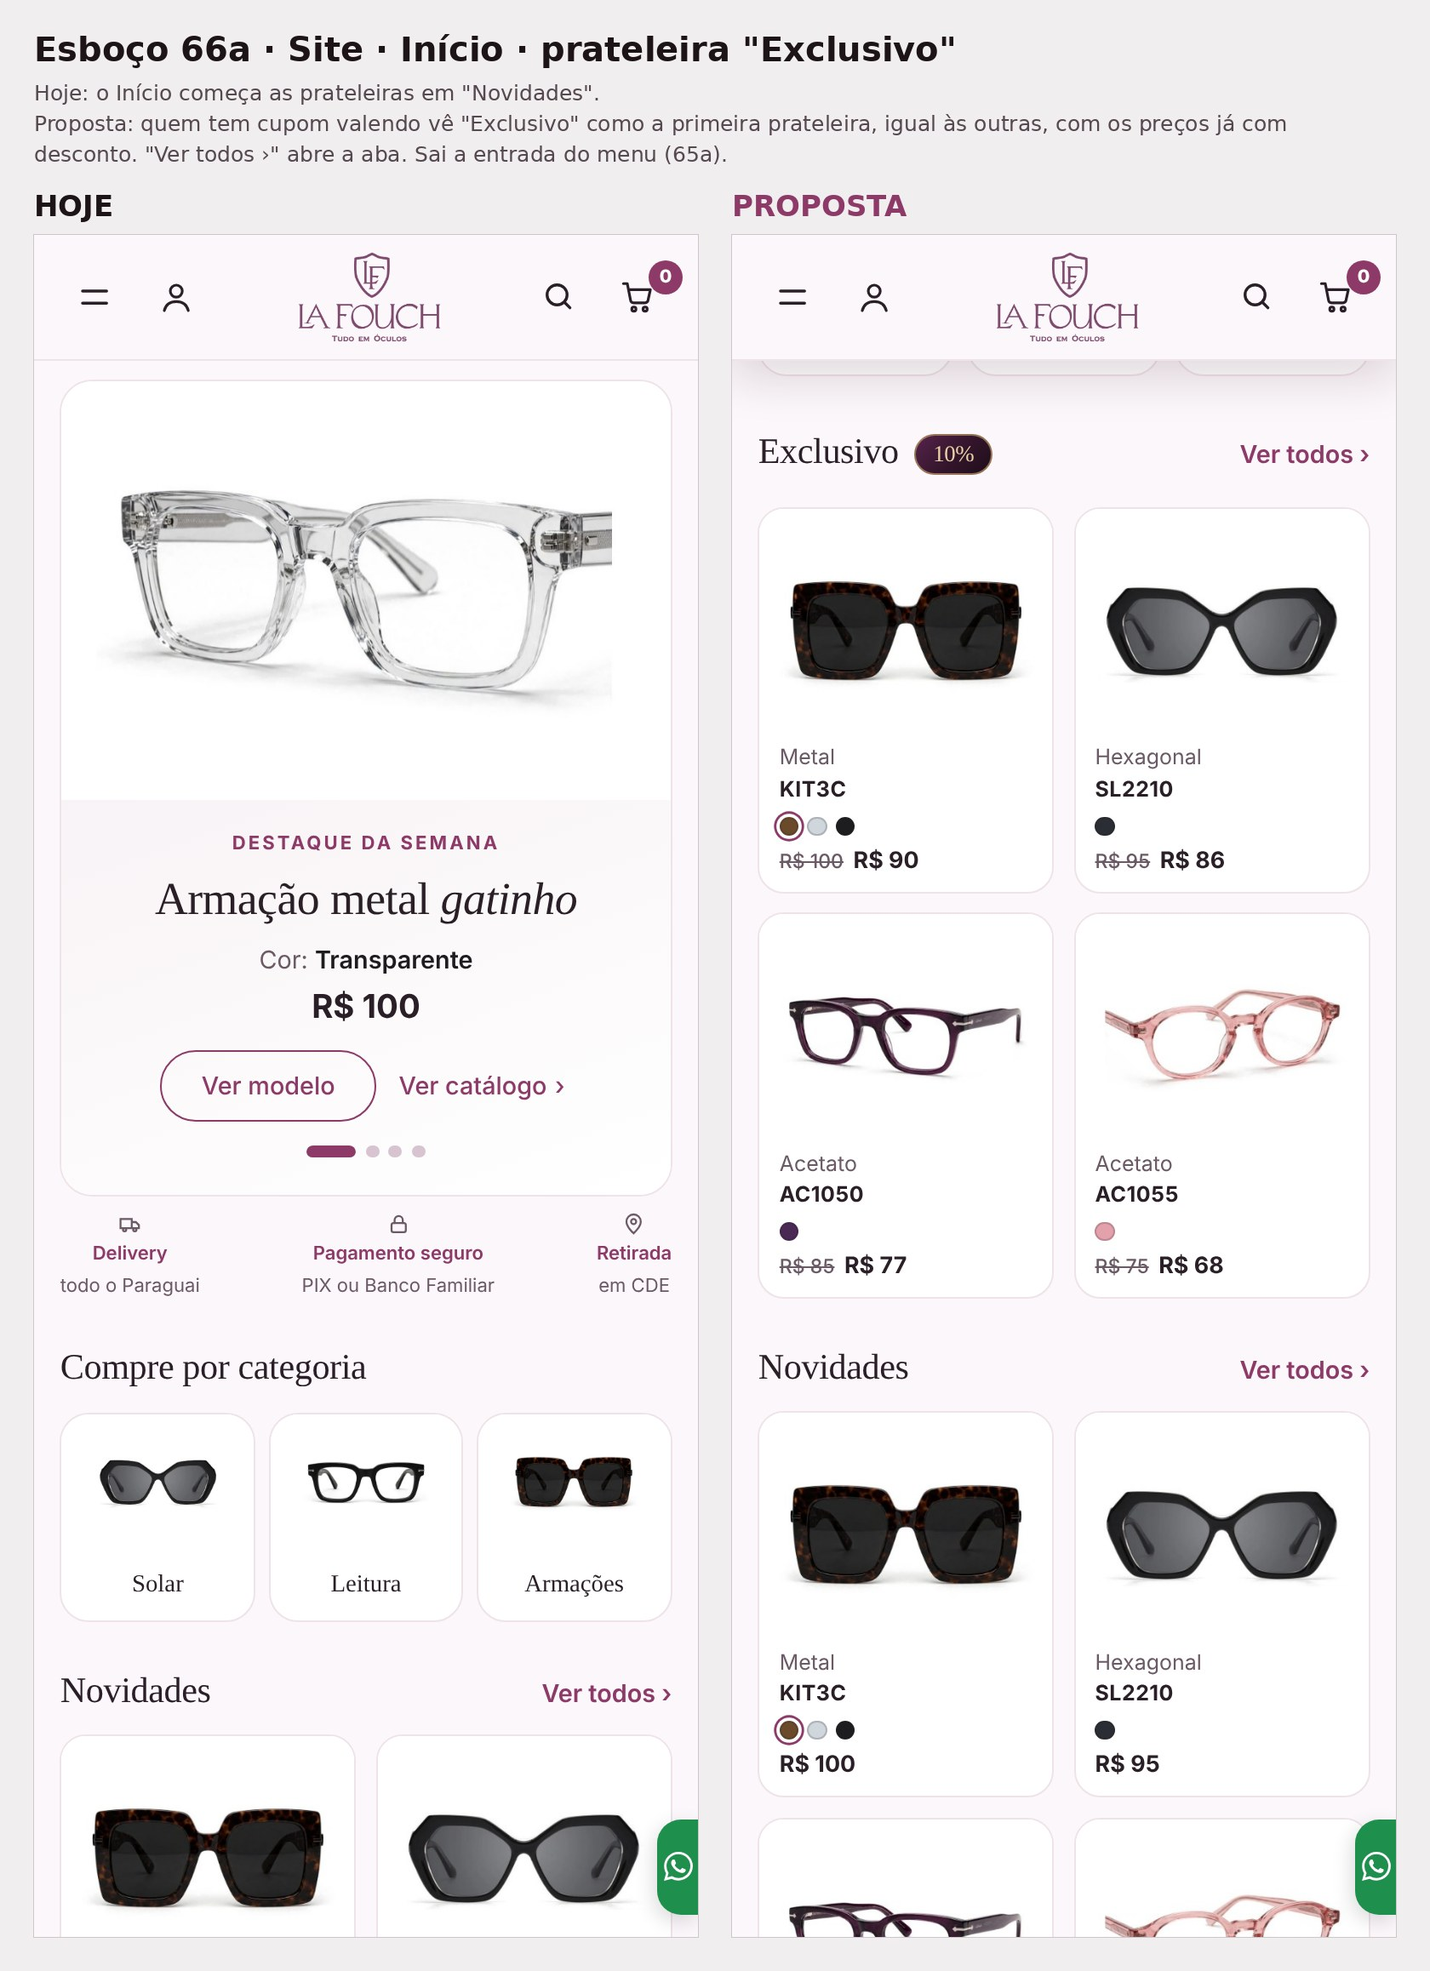
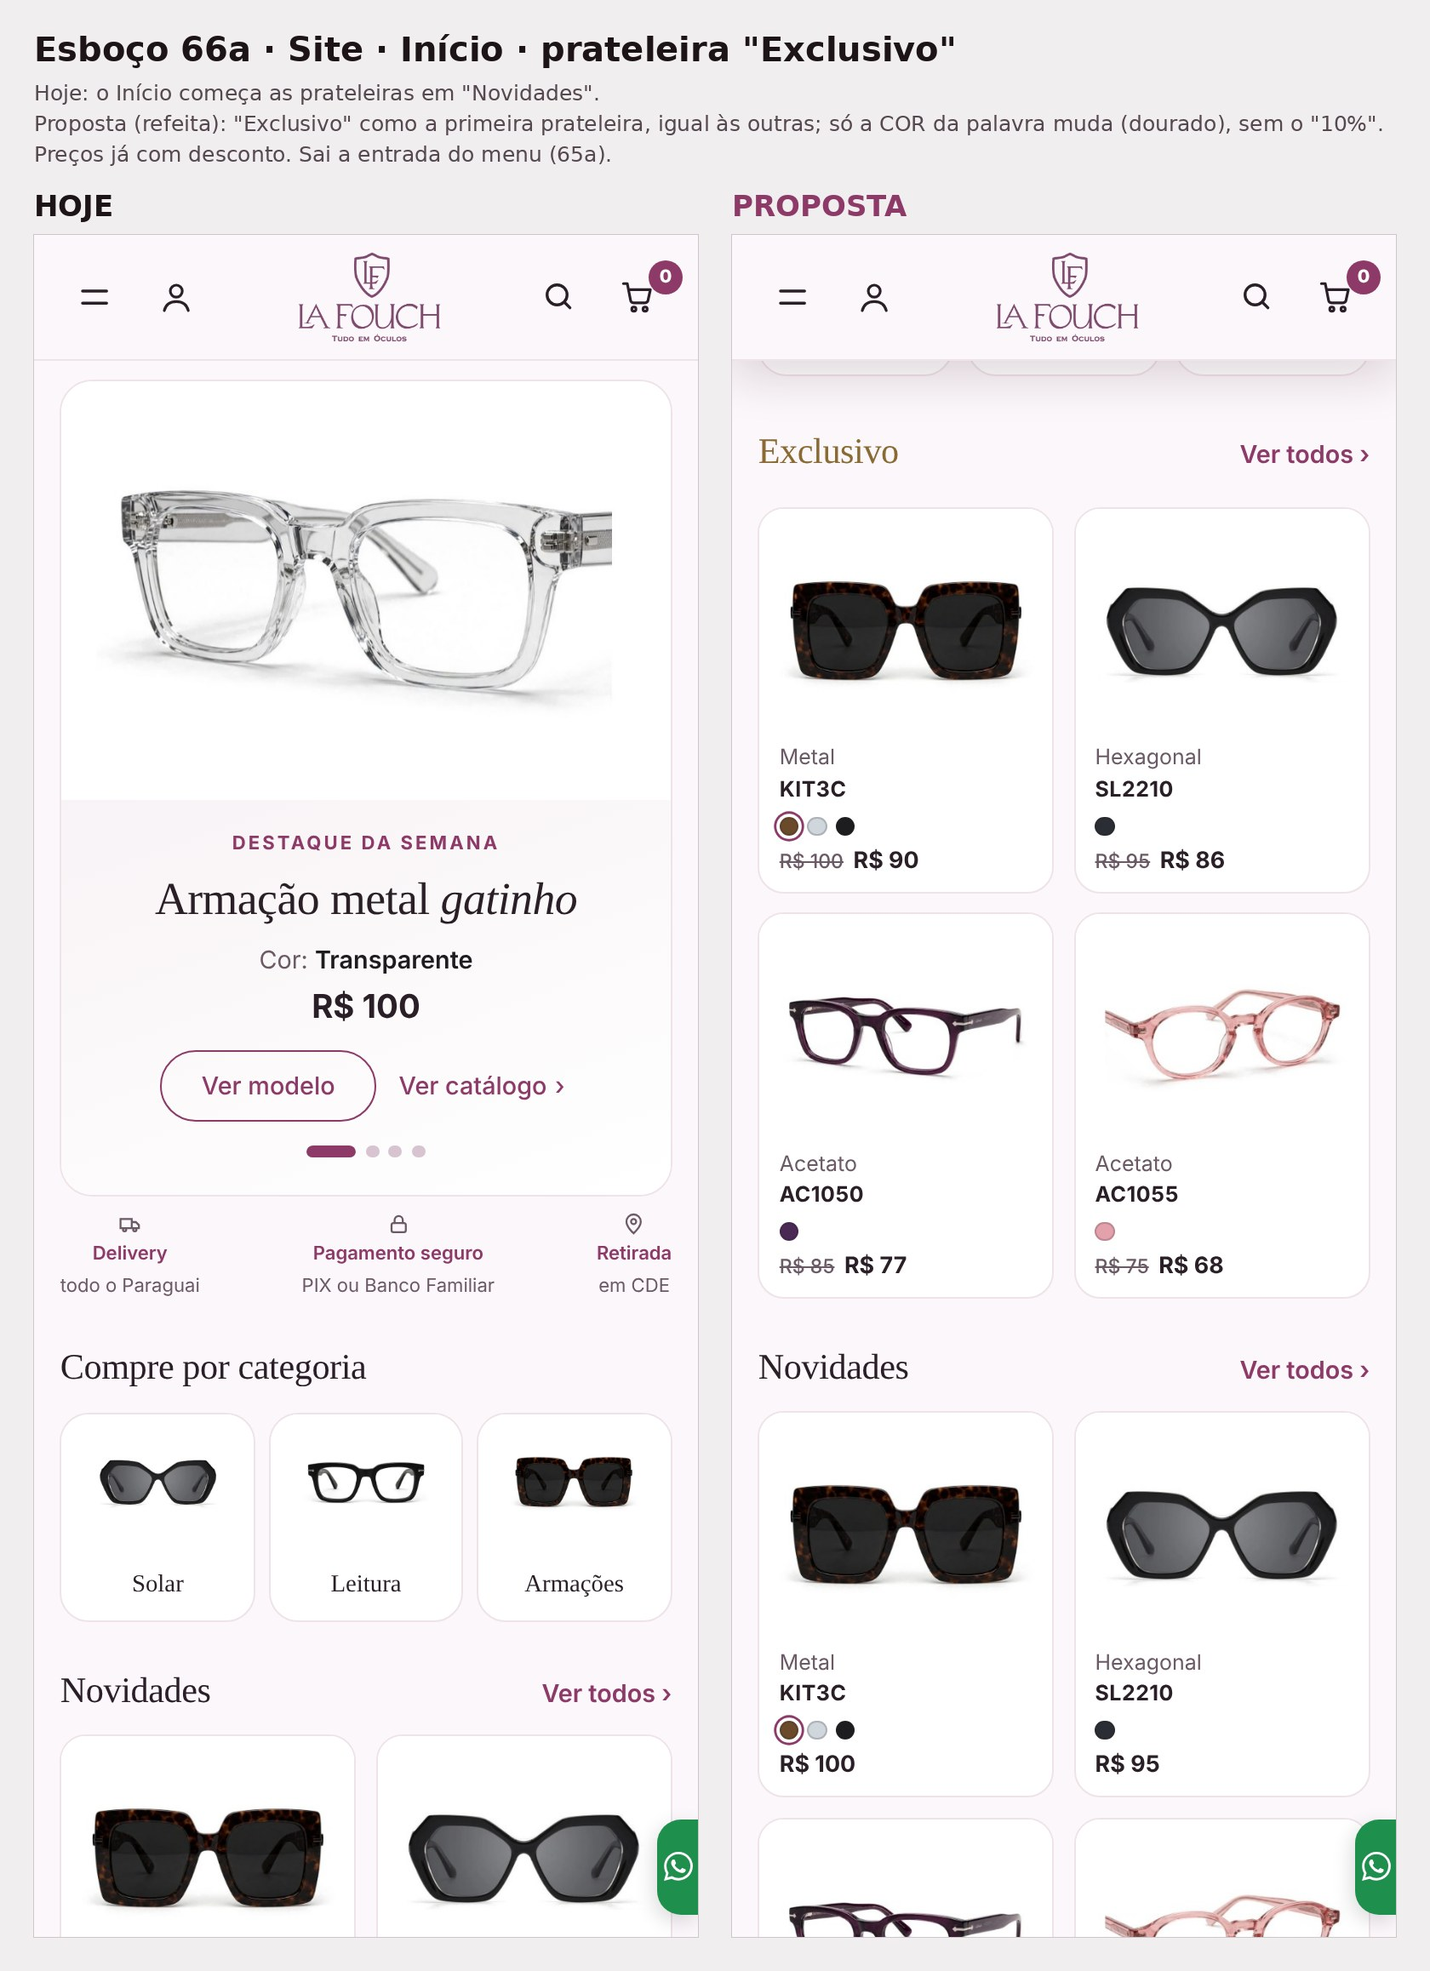
Esboços 66 refeitos: aba Exclusivo sem botões, prateleira sem o 10%, troca de cartão em Minha conta
Claude-Session: https://claude.ai/code/session_01Vj5GPR2QjandaFr6ascRKC

Changed region(s): [[0.031, 0.0622, 0.5262, 0.0933], [0.5262, 0.2176, 0.7119, 0.2487]]

diff --git a/work/s401/esb5.py b/work/s401/esb5.py
@@ -12,30 +12,45 @@ CSS+=""".exs h2 i{display:inline-block;vertical-align:middle;margin-left:10px;pa
 .exr .v{@G@}.exr .n{background:#1f5c3a;background-image:linear-gradient(135deg,#2a7049 0%,#1f5c3a 55%,#143d27 100%)}.exr .p{background:#17121a;background-image:linear-gradient(135deg,#2b2330 0%,#17121a 55%,#0c090e 100%)}
 .exr button.on{outline:2px solid #a9854a;outline-offset:3px}
 .card .pr .gp{display:inline-block;padding:3px 10px;border-radius:999px;background:#17121a;color:#e9d3a6;font:600 13px Inter,system-ui,sans-serif;letter-spacing:.04em}""".replace('@G@',G)
-PRAT="""()=>{const h=document.querySelector('.hsh.hsh1'),g=h.nextElementSibling;const h2=h.cloneNode(true),g2=g.cloneNode(true);h2.classList.add('exs');h2.querySelector('h2').innerHTML='Exclusivo<i>10%</i>';const lk=h2.querySelector('a');lk.style.cssText='display:inline-flex;align-items:center;min-height:44px';
+PRAT="""()=>{const h=document.querySelector('.hsh.hsh1'),g=h.nextElementSibling;const h2=h.cloneNode(true),g2=g.cloneNode(true);h2.classList.add('exs');h2.querySelector('h2').innerHTML='<span style="color:#8a6a33">Exclusivo</span>';const lk=h2.querySelector('a');lk.style.cssText='display:inline-flex;align-items:center;min-height:44px';
  [...g2.querySelectorAll('.hc')].forEach((c,i)=>{if(i>3){c.remove();return}const p=c.querySelector('.hp');const m=/([\\d.]+)/.exec(p.textContent);if(!m)return;const v=+m[1].replace(/\\./g,'');p.innerHTML='<s>'+p.textContent.trim()+'</s>'+p.textContent.trim().replace(m[1],String(Math.round(v*.9)))});
  h.parentNode.insertBefore(h2,h);h.parentNode.insertBefore(g2,h)}"""
 VERP="""(sel)=>{const h=document.querySelector(sel);h.scrollIntoView({block:'start'});let hb=document.querySelector('.top').getBoundingClientRect().bottom;[...document.querySelectorAll('body *')].forEach(e=>{const st=getComputedStyle(e);if(st.position==='fixed'||st.position==='sticky'){const r=e.getBoundingClientRect();if(r.top<=60&&r.height<260&&r.width>300)hb=Math.max(hb,r.bottom)}});window.scrollBy(0,-hb-34)}"""
 ABA2="""(m)=>{const LGO=window.__lgo,LGN=window.__lgn;const s=document.getElementById('vitrine'),g=document.getElementById('grid');[...s.children].forEach(e=>{if(e!==g&&!e.contains(g))e.style.display='none'});
  const h=document.createElement('div');h.className='exh'+(m===1?' nat':m===2?' pre':'');
  h.innerHTML='<div><img src="'+(m===1?LGN:LGO)+'" alt="La Fouch"><small>'+(m===1?'NATAL EXCLUSIVO':m===2?'PRESENTE ESPECIAL':'EXCLUSIVO')+'</small><strong>'+(m===2?'Um óculos de presente':'10%')+'</strong><em>'+(m===1?'de desconto · Natal':m===2?'na sua próxima compra':'nas peças desta página')+'</em><hr><p><span>'+(m===1?'PARA TODOS':'MARÍA GONZÁLEZ')+'</span><span>'+(m===1?'ATÉ 25/12/2026':m===2?'ATÉ 17/03/2027':'ATÉ 14/03/2027')+'</span></p></div>';g.parentNode.insertBefore(h,g);
- const r=document.createElement('div');r.className='exr';r.innerHTML='<small>SEUS CARTÕES</small><div><button type="button" class="v'+(m===0?' on':'')+'">10%<i>cartão presente</i></button><button type="button" class="n'+(m===1?' on':'')+'">10%<i>Natal</i></button><button type="button" class="p'+(m===2?' on':'')+'">✦<i>óculos de presente</i></button></div>';g.parentNode.insertBefore(r,g);
- const o=document.createElement('p');o.className='exo';o.style.margin='0 4px 16px';o.textContent=m===2?'Compre um óculos e escolha um destes de presente. Vale um cartão por compra.':'Os preços abaixo já estão com o desconto. Vale um cartão por compra.';g.parentNode.insertBefore(o,g);
+ const r=document.createElement('div');r.className='exr';r.style.display='none';r.innerHTML='<small>SEUS CARTÕES</small><div><button type="button" class="v'+(m===0?' on':'')+'">10%<i>cartão presente</i></button><button type="button" class="n'+(m===1?' on':'')+'">10%<i>Natal</i></button><button type="button" class="p'+(m===2?' on':'')+'">✦<i>óculos de presente</i></button></div>';g.parentNode.insertBefore(r,g);
+ const o=document.createElement('p');o.className='exo';o.style.margin='0 4px 16px';o.textContent=m===2?'Compre um óculos e escolha um destes de presente.':'Os preços abaixo já estão com o desconto.';g.parentNode.insertBefore(o,g);
  [...g.querySelectorAll('.card')].forEach(c=>{const p=c.querySelector('.pr');if(!p)return;if(m===2){p.innerHTML='<span class="gp">✦ Presente</span>';return}const x=/([\\d.]+)/.exec(p.textContent);if(!x)return;const v=+x[1].replace(/\\./g,'');p.innerHTML='<s>'+p.textContent.trim()+'</s>'+p.textContent.trim().replace(x[1],String(Math.round(v*.9)))});
  const rc=getComputedStyle(g.querySelector('.card')).borderRadius;h.style.setProperty('--rc',rc);h.scrollIntoView({block:'start'});let hb=document.querySelector('.top').getBoundingClientRect().bottom;[...document.querySelectorAll('body *')].forEach(e=>{const st=getComputedStyle(e);if(st.position==='fixed'||st.position==='sticky'){const q=e.getBoundingClientRect();if(q.top<=60&&q.height<260&&q.width>300)hb=Math.max(hb,q.bottom)}});window.scrollBy(0,h.getBoundingClientRect().top-hb-16);const sp=document.createElement('div');sp.style.cssText='height:44px';h.parentNode.insertBefore(sp,h);const sc=document.getElementById('vscr');const fl=hb+18-h.getBoundingClientRect().top;if(fl>0&&sc)sc.scrollTop-=fl;return [hb,h.getBoundingClientRect().top]}"""
 AUTO="""()=>{const d=document.querySelector('#layer .exc');d.innerHTML='<span><i>✦</i>Cartão de 10% aplicado</span><span style="font-weight:600;color:#1f8f4e">− R$ 10</span>';const n=document.createElement('p');n.className='exn';n.innerHTML='O seu cartão entrou sozinho porque a peça veio da Exclusivo. <a href="#">Guardar para outra compra ›</a>';document.querySelector('#layer .cl').appendChild(n);const t=document.querySelector('#layer .cs-t b');if(t)t.textContent='R$ 90'}"""
 LEVE="""()=>{const d=document.querySelector('#layer .exc');d.innerHTML='<span style="color:#1d1418"><i>✦</i>Leve 2 aplicado</span><span style="font-weight:600;color:#1f8f4e">− R$ 28</span>';const n=document.createElement('p');n.className='exn';n.innerHTML='Este carrinho tem “Leve 2”, que não soma com o cartão. Entrou o maior desconto; o seu cartão de 10% continua guardado.';document.querySelector('#layer .cl').appendChild(n);const t=document.querySelector('#layer .cs-t b');if(t)t.textContent='R$ 72'}"""
 with sync_playwright() as pw:
     par('p',lambda:site(pw),"()=>{}",[PRAT,(VERP,'.exs')],1000)
-    par('q',lambda:site(pw,'natal'),VIT,[(ABA2,0)],1150)
     par('r',lambda:site(pw,'natal'),VIT,[(ABA2,1)],1150)
     par('s',lambda:site(pw,'natal'),VIT,[(ABA2,2)],1150)
     par('t',lambda:carrinho(pw),None,[CAR1,AUTO])
     par('u',lambda:carrinho(pw),None,[CAR1,LEVE])
 P=comum.prancha
-P('66a-site-inicio-prateleira-exclusivo.jpg','Esboço 66a · Site · Início · prateleira "Exclusivo"',['Hoje: o Início começa as prateleiras em "Novidades".','Proposta: quem tem cupom valendo vê "Exclusivo" como a primeira prateleira, igual às outras, com os preços já com desconto. "Ver todos ›" abre a aba. Sai a entrada do menu (65a).'],T+'p_h.png',T+'p_p.png')
-P('66b-site-exclusivo-varios-cartoes.jpg','Esboço 66b · Site · Aba Exclusivo com mais de um cupom',['Hoje: catálogo comum (aqui, em época de Natal).','Proposta: a aba mostra UM cartão ativo (abre no de maior desconto) e a fileira "Seus cartões" para trocar. Vale um cartão por compra.'],T+'q_h.png',T+'q_p.png')
-P('66c-site-exclusivo-trocou-para-o-evento.jpg','Esboço 66c · Site · Aba Exclusivo · tocou no cartão do Natal',['Hoje: catálogo comum.','Proposta: ao tocar em outro cartão, o topo vira o cartão escolhido (cores da temática) e os preços passam a ser os dele.'],T+'r_h.png',T+'r_p.png')
-P('66d-site-exclusivo-oculos-de-presente.jpg','Esboço 66d · Site · Aba Exclusivo · tocou em "óculos de presente"',['Hoje: catálogo comum.','Proposta: o presente da 5ª indicação é um dos cartões. A aba mostra as peças que podem ser o presente; ele compra um óculos e escolhe um destes.'],T+'s_h.png',T+'s_p.png')
+P('66a-site-inicio-prateleira-exclusivo.jpg','Esboço 66a · Site · Início · prateleira "Exclusivo"',['Hoje: o Início começa as prateleiras em "Novidades".','Proposta (refeita): "Exclusivo" como a primeira prateleira, igual às outras; só a COR da palavra muda (dourado), sem o "10%". Preços já com desconto. Sai a entrada do menu (65a).'],T+'p_h.png',T+'p_p.png')
+P('66b-site-exclusivo-mais-de-um-cupom.jpg','Esboço 66b · Site · Aba Exclusivo quando há mais de um cupom',['Hoje: catálogo comum (aqui, em época de Natal).','Proposta (refeita): a aba fica limpa, SEM botões de cartão. Por padrão vale o cartão da temática (o do evento). Para usar outro, o cliente escolhe em Minha conta › Cartões (esboço 66g).'],T+'r_h.png',T+'r_p.png')
+P('66d-site-exclusivo-oculos-de-presente.jpg','Esboço 66d · Site · Aba Exclusivo · com o "óculos de presente" escolhido',['Hoje: catálogo comum.','Proposta (refeita, sem botões): quando o cliente escolhe o presente em Minha conta › Cartões, a aba mostra as peças que podem ser o presente; ele compra um óculos e escolhe um destes.'],T+'s_h.png',T+'s_p.png')
 P('66e-site-carrinho-cupom-entrou-sozinho.jpg','Esboço 66e · Site · Carrinho · peça veio da Exclusivo',['Hoje: "Tem um código?" — nada é aplicado sem digitar.','Proposta: a peça adicionada pela Exclusivo já chega com o cartão aplicado. Uma linha explica e oferece "Guardar para outra compra".'],T+'t_h.png',T+'t_p.png')
 P('66f-site-carrinho-leve-2-e-cartao.jpg','Esboço 66f · Site · Carrinho · “Leve 2” e cartão juntos',['Hoje: vale o maior desconto, mas o carrinho não explica.','Proposta: o carrinho diz qual desconto entrou e que o cartão continua guardado. (Valores de exemplo.)'],T+'u_h.png',T+'u_p.png')
+
+# 66g: Minha conta › Cartões com mais de um cartão — é aqui que se troca o cartão em uso na Exclusivo
+import pago
+pago.MEUS={'ok':True,'guardados':0,'indicacoes':5,'nome':'María González','cupons':[{'cod':'LF-7K2M','tipo':'px','pct':10,'estado':'ok','fim':1805000000000,'usado':False,'nome':'María González','max':1},{'cod':'LF-9V3T','tipo':'vip','pct':15,'estado':'ok','fim':1810000000000,'usado':False,'nome':'María González','max':1}]}
+G7="""(lg)=>{const b=document.getElementById('mtj');const cs=[...b.querySelectorAll('.mtc')].filter(c=>c.querySelector('.lxc'));
+ const nat=document.createElement('div');nat.className='mtc';nat.innerHTML='<div class="lxc" style="max-width:300px;margin:0 auto;border-radius:16px;background:#1f5c3a;background-image:linear-gradient(135deg,#2a7049 0%,#1f5c3a 55%,#143d27 100%);padding:6px"><div style="border:1px solid rgba(255,217,160,.6);border-radius:11px;padding:15px 16px 13px"><div style="display:flex;justify-content:space-between;align-items:center"><img src="'+lg+'" width="82" alt="La Fouch"><span style="font:500 12.5px Inter,Arial;letter-spacing:.14em;color:#d3e3d8">CUPOM DO EVENTO</span></div><div style="font:500 42px/1 Fraunces,Georgia,serif;color:#ffd9a0;margin:18px 0 2px">10%</div><div style="font:italic 16px/1.3 Fraunces,Georgia,serif;color:#fff">de desconto · Natal</div><div style="height:1px;background:rgba(255,217,160,.45);margin:14px 0 9px"></div><div style="display:flex;justify-content:space-between;font:500 12.5px Inter,Arial;letter-spacing:.04em;white-space:nowrap;color:#d3e3d8"><span>PARA TODOS</span><span>ATÉ 25/12/2026</span></div></div></div><div class="mtl"><span>Estado: <b>Em uso na aba Exclusivo</b></span></div>';
+ b.insertBefore(nat,b.firstChild);cs.forEach(c=>{const bt=c.querySelector('[data-cupsim]');if(bt)bt.textContent='Usar este'})}"""
+def cart(pw):
+    b,pg,w=pago.abre(pw,'cartoes');pg.add_style_tag(content=CSS);w(600);return b,pg,w
+def foto(pg,arq):
+    h=pg.evaluate("()=>Math.max(844,(document.querySelector('#layer .panel')||{scrollHeight:0}).scrollHeight+4)");pg.set_viewport_size({'width':390,'height':int(min(h,1700))});pg.wait_for_timeout(400);pg.screenshot(path=arq)
+with sync_playwright() as pw:
+    b,pg,w=cart(pw);oh=comum.olho(pg);foto(pg,T+'g7_h0.png');b.close()
+    b,pg,w=cart(pw);pg.evaluate(G7,U('/home/claude/catalogo/media/email/cartao-ev-natal.png'));w(400);op=comum.olho(pg);foto(pg,T+'g7_p.png');b.close();print('g7 falhas novas:',sorted(op-oh)[:4])
+from PIL import Image
+a=Image.open(T+'g7_h0.png');p=Image.open(T+'g7_p.png');H=max(a.size[1],p.size[1]);A=Image.new('RGB',(a.size[0],H),'#fbf7fa');A.paste(a,(0,0));A.save(T+'g7_h.png')
+P('66g-site-minha-conta-trocar-cartao.jpg','Esboço 66g · Site · Minha conta › Cartões · escolher qual cartão usar',['Hoje (já no ar): cada cartão com o seu "Usar agora".','Proposta: o cartão que está valendo na aba Exclusivo aparece primeiro, marcado "Em uso na aba Exclusivo" (por padrão, o da temática). "Usar este" em outro cartão troca e leva à aba.'],T+'g7_h.png',T+'g7_p.png')

diff --git a/docs/FALTA-APROVAR-15-11.md b/docs/FALTA-APROVAR-15-11.md
@@ -349,3 +349,5 @@ Não são esquecimento (estavam na lista, parados de propósito ou por ordem do 
 - 17/11 09:10 — DONO: o cupom deve ser APLICADO AUTOMATICAMENTE — (a) "Usar agora" em Minha conta leva à aba Exclusivo e aplica; (b) visitar a aba Exclusivo e adicionar peças de lá também aplica sozinho. Concordei e propus completar: com cupom valendo o carrinho já abre com "Cartão de 10% aplicado" (o "Usar" do 65e deixa de ser necessário) + uma saída "Guardar para outra compra" (o cartão é de 1 uso; aplicar sozinho numa compra pequena gastaria o cartão sem o cliente querer); com dois cupons (cartão pessoal + evento) entra o de maior desconto. ESPERANDO ele confirmar esses dois pontos; depois esboço da prateleira e do carrinho. Nada implementado.
 - 17/11 09:13 — DONO: peça adicionada pelo catálogo COMUM (fora da Exclusivo) → só SUGERIR o cupom no carrinho (o 65e "Você tem um cartão · Usar"), não aplicar sozinho, porque o cliente pode estar guardando o cupom. Pela Exclusivo continua aplicando sozinho. Perguntou: com MAIS DE UM cupom disponível, como fica a Exclusivo? PROPOSTA minha (esperando decisão): a Exclusivo mostra um cupom por vez; no topo, o cartão ativo e, se houver outros, uma fileira "Seus cartões" para trocar (a página muda de cor e de preços); por padrão abre no de maior desconto (empate: o que vence primeiro); continua valendo um cupom por compra; o presente "segundo óculos" entra como um dos cartões. Nada implementado.
 - 17/11 09:14 — DONO pediu esboço de TODAS as propostas e possibilidades → ESBOÇOS 66a–66f enviados, ESPERANDO decisão (work/s401/esb5.py; nada implementado): 66a Início com a prateleira "Exclusivo" (1ª prateleira, igual às outras, preço com desconto; substitui a entrada do menu 65a) · 66b aba Exclusivo com mais de um cupom (um cartão ativo + fileira "Seus cartões") · 66c tocou no cartão do Natal (topo e preços trocam) · 66d tocou em "óculos de presente" (peças que podem ser o presente) · 66e carrinho com a peça vinda da Exclusivo: cartão aplicado sozinho + "Guardar para outra compra" · 66f carrinho com "Leve 2" e cartão (entra o maior; o cartão fica guardado). O caso "peça adicionada pelo catálogo comum → o carrinho só SUGERE o cartão" é o 65e, e "peça em OFERTA no carrinho" é o 65f (os dois já aprovados). 65c corrigido: respiro entre o cartão e o cabeçalho (o catálogo rola dentro de #vscr — a aba precisa de espaço no topo ao implementar). Inspetor: 66b–66d sem falha nova; 66e/66f barra fixa 1 px menor que a de hoje; 66a acusou "Ver todos ›" com toque < 24 px (é o mesmo link das prateleiras de hoje; a conferir ao implementar).
+- 17/11 09:33 — DONO (proposta dele, melhor): a aba Exclusivo fica LIMPA, SEM os 3 botões "Seus cartões" (66b/66c como desenhados ficam RETIRADOS); por padrão vale o cartão da TEMÁTICA (evento); para trocar, o cliente escolhe em Minha conta › Cartões. E na prateleira/aba, em vez do "10%" "escandaloso", só alterar levemente a COR da palavra "Exclusivo". Refazer os esboços.
+- 17/11 09:5x — ESBOÇOS REFEITOS pela proposta do dono, ESPERANDO decisão (work/s401/esb5.py; nada implementado): 66a prateleira "Exclusivo" SEM o "10%" (só a palavra em dourado #8a6a33) · 66b aba Exclusivo limpa, sem botões, valendo por padrão o cartão da temática · 66d aba com o "óculos de presente" escolhido, sem botões · 66g NOVO: Minha conta › Cartões — o cartão em uso aparece primeiro, marcado "Em uso na aba Exclusivo"; "Usar este" nos outros troca e leva à aba · 66e e 66f sem mudança. RETIRADOS: 66c e a fileira "Seus cartões". Inspetor: 66b, 66d, 66g sem falha nova; 66a continua acusando "Ver todos ›" com toque < 24 px (mesmo link das prateleiras de hoje). A decidir: fora de evento, qual cartão vale por padrão (proposta: o de maior desconto).
